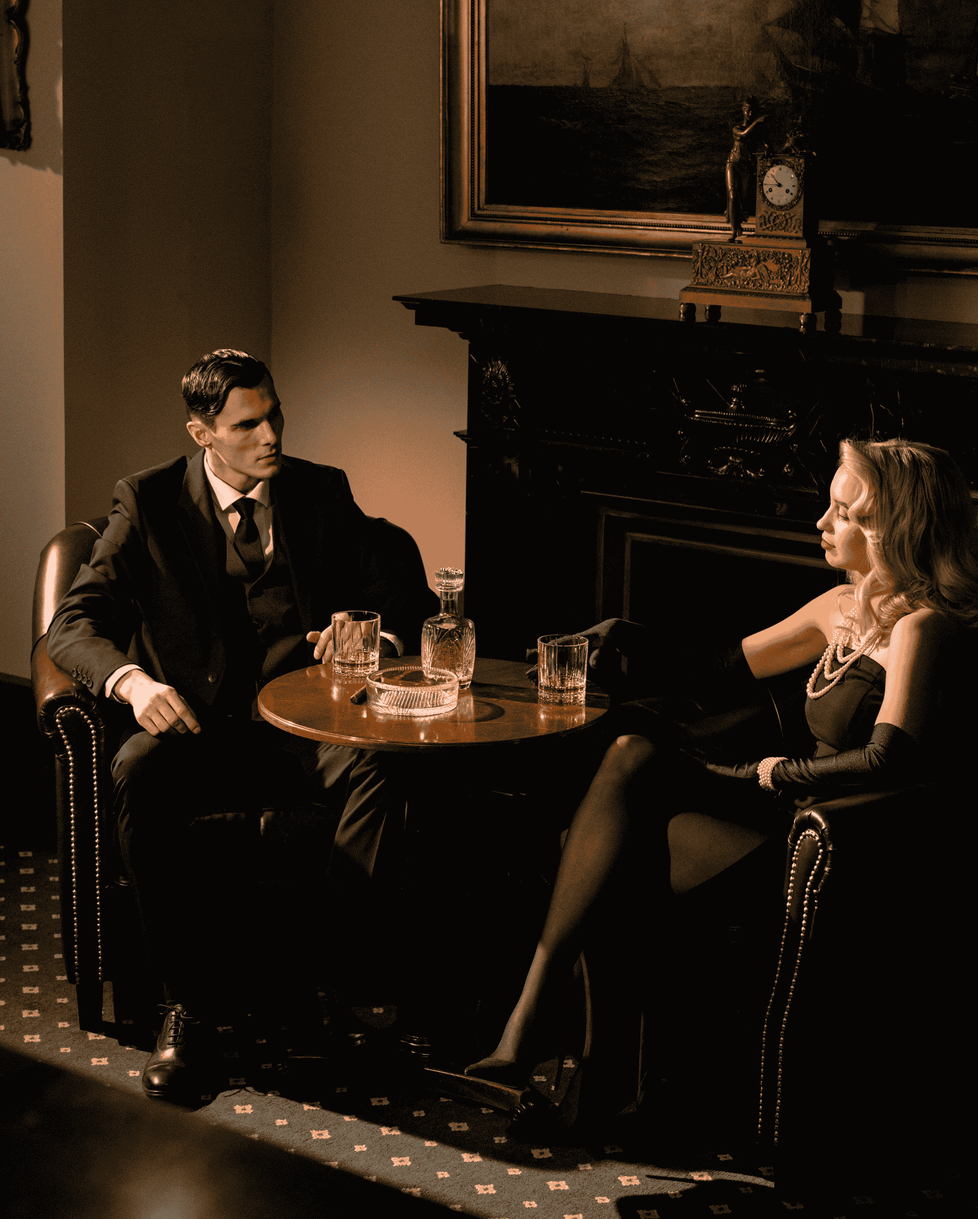
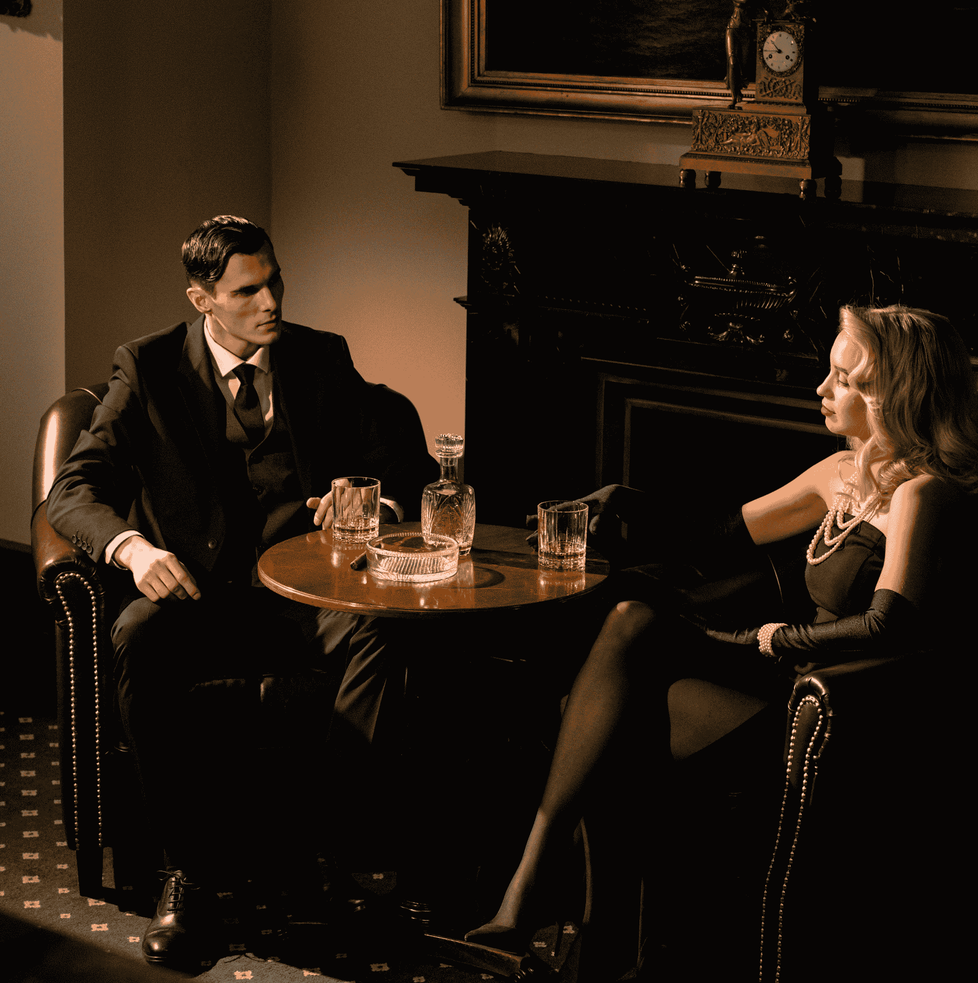
`Update contact information in footer.blade.php and update image about-11.png`

diff --git a/resources/views/frontend/partials/footer.blade.php b/resources/views/frontend/partials/footer.blade.php
@@ -6,10 +6,10 @@
                 <div class="col-md-6 offset-md-1">
                     <div class="item">
                         <h3>Get in touch</h3>
-                        <p>Plot 9, Coal City Garden Estate, Okpara Avenue,
+                        <p><strong>Enugu Office: </strong>Plot 9, Coal City Garden Estate, Okpara Avenue,
                             <br>Enugu State, Nigeria.
                         </p>
-                        <p>Suite C303 Third Floor Block C, Millennium Plaza,
+                        <p><strong>Abuja Office: </strong>Suite C303 Third Floor Block C, Millennium Plaza,
                             <br> Plot 251 Herbert Macaulay Way,
                             <br>Central Business District, Abuja.
                         </p>
